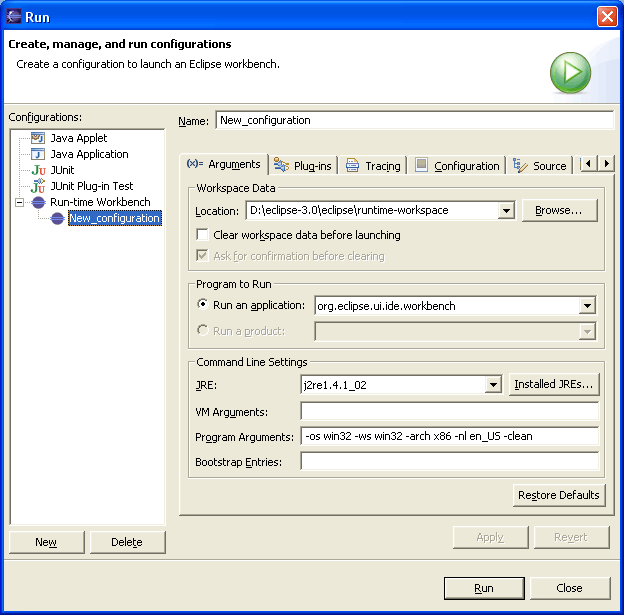
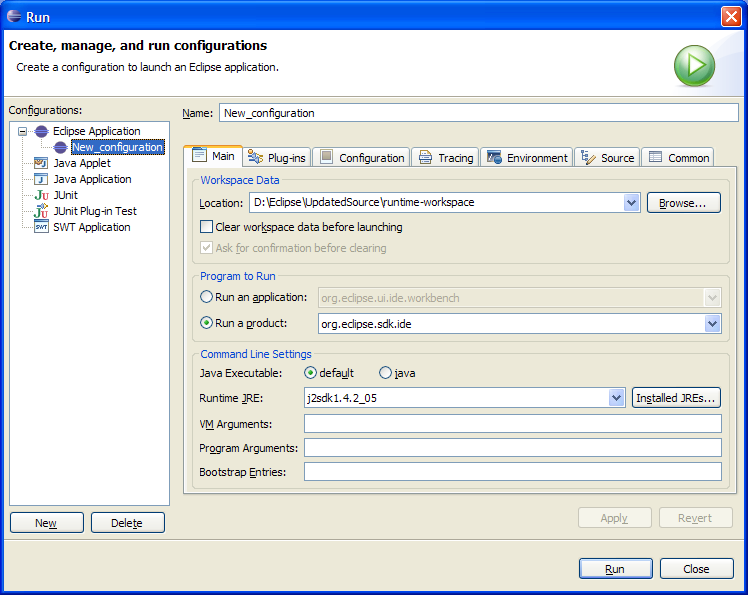
*** empty log message ***

Changed region(s): [[0.0, 0.0605, 1.0, 0.9983], [0.0, 0.0, 0.4263, 0.121], [0.9439, 0.0, 1.0, 0.0605]]

diff --git a/bundles/org.eclipse.pde.doc.user/guide/pde_running.htm b/bundles/org.eclipse.pde.doc.user/guide/pde_running.htm
@@ -10,41 +10,29 @@
 <BODY BGCOLOR="#ffffff">
 
 <h1>Running a plug-in</h1>
-<p>As you develop your plug-in in the workspace, the incremental Java compiler
-will compile your Java source code and place the <b> *.class</b> files into the
-<b>bin</b> directory of your PDE project. When you are ready to test your
-plug-in, you can launch a runtime workbench instance to test your new plug-in.</p>
-<p>The easiest way to launch a runtime workbench is via the link in the Testing 
-section of the plug-in manifest editor's Overview page. <b>Run-&gt;Run As-&gt;Run-time Workbench</b> from the main menu bar.&nbsp; 
-This will immediately create a second (run-time) workbench instance that will 
-appear within seconds.</p>
+<p>As you develop your plug-in in the workspace, the incremental Java compiler 
+  will compile your Java source code and place the <b> *.class</b> files into 
+  the <b>bin</b> directory of your PDE project. When you are ready to test your 
+  plug-in, you can launch a separate Eclipse application instance to test your 
+  new plug-in.</p>
+<p>The easiest way to launch an Eclipse applicaiton is via the link in the Testing 
+  section of the plug-in manifest editor's Overview page. <b> </b>This will immediately 
+  create a second Eclipse instance that will appear within seconds.</p>
 <p>To gain full control over the way the run-time workbench is launched, select <b>Run 
 &gt; Run...</b> from the main menu bar. This will bring up the Launch Configuration 
 Dialog.</p>
-<p align="center">
-<img border="0" src="images/launch-dialog.png" alt="Run-time workbench launcher - arguments" ></p>
-<p align="left">You can create several configurations and give them unique 
-names, each one having different parameters. This allows you to test your 
-plug-in under different conditions by simply switching between different 
-configurations. </p>
+<p align="center"> <img border="0" src="images/launch-dialog.png" alt="Eclipse Application - Main tab" ></p>
 <p align="left"><b>Workspace data</b> field defines the workspace that will be 
-used by the run-time workbench. The location of this runtime workspace must be 
-different from the workspace of your host instance.</p>
-<p align="left">The default Eclipse application is <i>
-org.eclipse.ui.ide.workbench</i>.&nbsp; Launching it will result in a second 
-workbench instance coming up whose constituent plug-ins are the workspace 
-plug-ins and the plug-ins selected on the Target Platform preference page.&nbsp;
-</p>
+  used by your application. The location of this runtime workspace must be different 
+  from the workspace of your host instance.</p>
+<p align="left">The default program to run is the<i> org.eclipse.sdk.ide </i>product.&nbsp; 
+  Launching it will result in a second workbench instance coming up whose constituent 
+  plug-ins are the workspace plug-ins and the plug-ins selected on the Target 
+  Platform preference page.&nbsp; </p>
 <p align="left">You can test your runtime workbench using the <b>JRE</b> of your 
-choice and does not have to be the same one against which your plug-ins compile 
-in the workspace.&nbsp; You can also specify any VM arguments that are 
-appropriate for your testing.</p>
-<p align="left">PDE uses the values specified on the <b>Plug-in 
-Development &gt; Target Environment</b> preference page to set the default program 
-arguments for the launch configuration.&nbsp; If you manually change these 
-values in the configuration, changes will only affect that particular 
-configuration.&nbsp; Changes made on the preference page will affect all 
-configurations created thereafter.</p>
+  choice and does not have to be the same one against which your plug-ins compile 
+  in the workspace.&nbsp; You can also specify any VM arguments that are appropriate 
+  for your testing.</p>
 <h2>Example:&nbsp; Running the Sample</h2>
 <p>Press <b>Run</b>.&nbsp; Another platform instance should open. You will see a 
 top menu item called &quot;Sample Menu&quot; with a single &quot;Sample Action&quot; item. Selecting it should 
